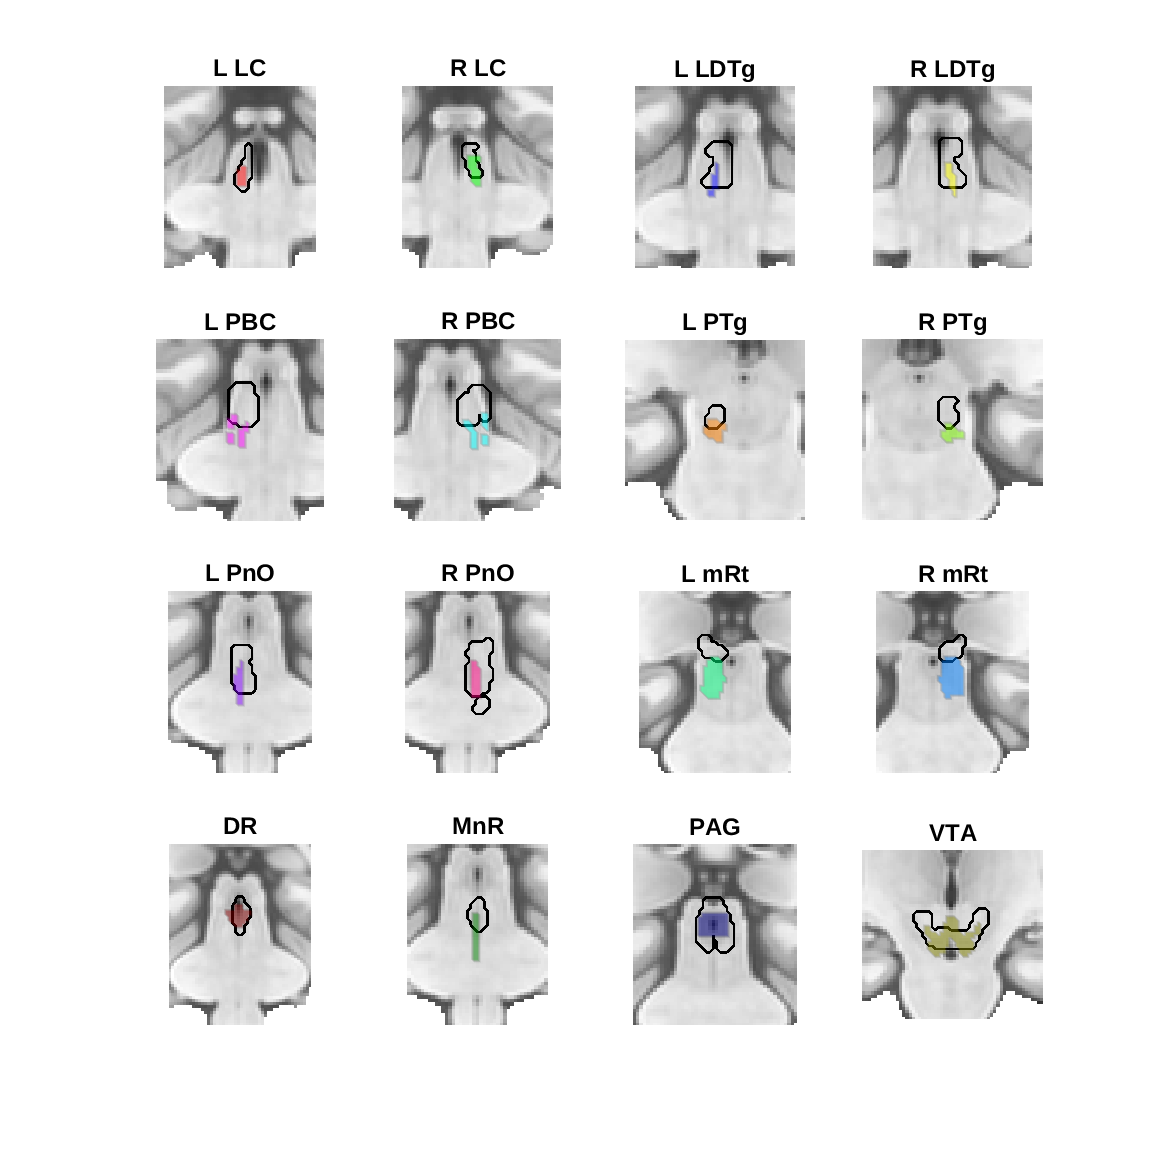
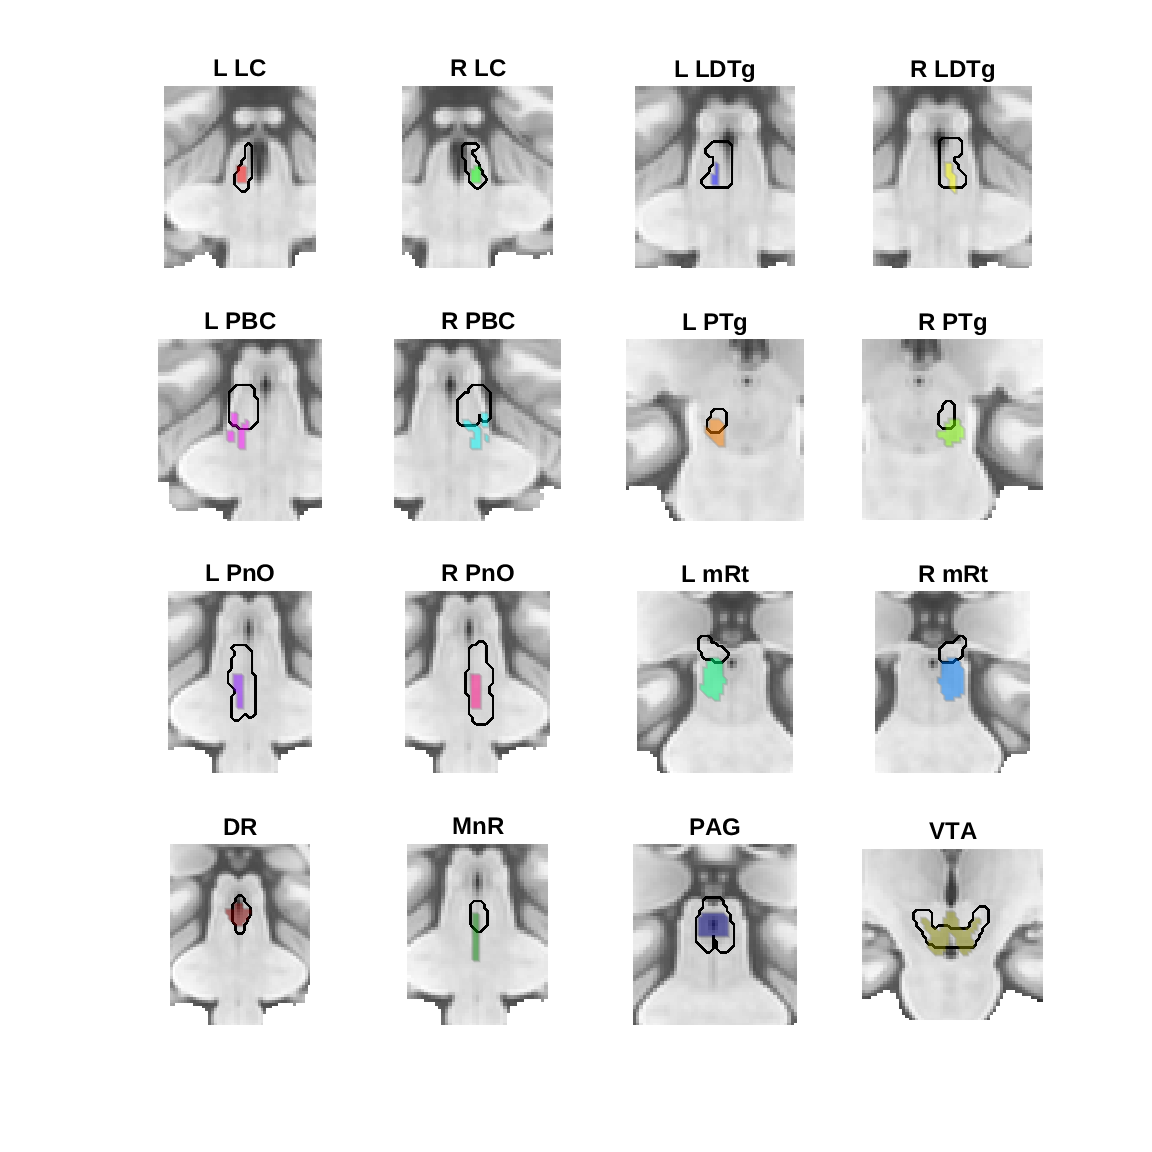
correction for use of wrong MNI152NLin2009cAsym transform

diff --git a/Atlases_and_parcellations/2023_harvard_aan_brainstem_atlas/html/compare_with_bianciardi.html b/Atlases_and_parcellations/2023_harvard_aan_brainstem_atlas/html/compare_with_bianciardi.html
@@ -186,7 +186,7 @@ sagittal montage: 102 voxels displayed, 447 not displayed on these slices
 Keeping probability_map values above 0.20
 Warning: Unknown input string option:existing_figure 
 Warning: Unknown input string option:existing_axes 
-sagittal montage: 102 voxels displayed, 537 not displayed on these slices
+sagittal montage: 111 voxels displayed, 528 not displayed on these slices
 Keeping probability_map values above 0.20
 Warning: Unknown input string option:existing_figure 
 Warning: Unknown input string option:existing_axes 
@@ -236,7 +236,7 @@ coronal montage:  21 voxels displayed,  45 not displayed on these slices
 Keeping probability_map values above 0.20
 Warning: Unknown input string option:existing_figure 
 Warning: Unknown input string option:existing_axes 
-coronal montage:  14 voxels displayed,  60 not displayed on these slices
+coronal montage:  20 voxels displayed,  54 not displayed on these slices
 Keeping probability_map values above 0.20
 Warning: Unknown input string option:existing_figure 
 Warning: Unknown input string option:existing_axes 
@@ -260,15 +260,15 @@ coronal montage:   9 voxels displayed, 161 not displayed on these slices
 Keeping probability_map values above 0.20
 Warning: Unknown input string option:existing_figure 
 Warning: Unknown input string option:existing_axes 
-coronal montage:  16 voxels displayed, 129 not displayed on these slices
+coronal montage:   7 voxels displayed, 138 not displayed on these slices
 Keeping probability_map values above 0.20
 Warning: Unknown input string option:existing_figure 
 Warning: Unknown input string option:existing_axes 
-coronal montage:  51 voxels displayed, 703 not displayed on these slices
+coronal montage:  84 voxels displayed, 670 not displayed on these slices
 Keeping probability_map values above 0.20
 Warning: Unknown input string option:existing_figure 
 Warning: Unknown input string option:existing_axes 
-coronal montage:  74 voxels displayed, 725 not displayed on these slices
+coronal montage:  97 voxels displayed, 702 not displayed on these slices
 Keeping probability_map values above 0.20
 Warning: Unknown input string option:existing_figure 
 Warning: Unknown input string option:existing_axes 
@@ -284,7 +284,7 @@ coronal montage:  25 voxels displayed, 339 not displayed on these slices
 Keeping probability_map values above 0.20
 Warning: Unknown input string option:existing_figure 
 Warning: Unknown input string option:existing_axes 
-coronal montage:  20 voxels displayed, 183 not displayed on these slices
+coronal montage:  17 voxels displayed, 186 not displayed on these slices
 Keeping probability_map values above 0.20
 Warning: Unknown input string option:existing_figure 
 Warning: Unknown input string option:existing_axes 
@@ -298,11 +298,11 @@ coronal montage:  96 voxels displayed, 1317 not displayed on these slices
 Keeping probability_map values above 0.20
 Warning: Unknown input string option:existing_figure 
 Warning: Unknown input string option:existing_axes 
-axial montage:   6 voxels displayed,  60 not displayed on these slices
+axial montage:   5 voxels displayed,  61 not displayed on these slices
 Keeping probability_map values above 0.20
 Warning: Unknown input string option:existing_figure 
 Warning: Unknown input string option:existing_axes 
-axial montage:   8 voxels displayed,  66 not displayed on these slices
+axial montage:   5 voxels displayed,  69 not displayed on these slices
 Keeping probability_map values above 0.20
 Warning: Unknown input string option:existing_figure 
 Warning: Unknown input string option:existing_axes 
@@ -314,11 +314,11 @@ axial montage:  19 voxels displayed, 536 not displayed on these slices
 Keeping probability_map values above 0.20
 Warning: Unknown input string option:existing_figure 
 Warning: Unknown input string option:existing_axes 
-axial montage:  22 voxels displayed, 527 not displayed on these slices
+axial montage:  32 voxels displayed, 517 not displayed on these slices
 Keeping probability_map values above 0.20
 Warning: Unknown input string option:existing_figure 
 Warning: Unknown input string option:existing_axes 
-axial montage:  23 voxels displayed, 616 not displayed on these slices
+axial montage:  31 voxels displayed, 608 not displayed on these slices
 Keeping probability_map values above 0.20
 Warning: Unknown input string option:existing_figure 
 Warning: Unknown input string option:existing_axes 
@@ -326,7 +326,7 @@ axial montage:   0 voxels displayed, 170 not displayed on these slices
 Keeping probability_map values above 0.20
 Warning: Unknown input string option:existing_figure 
 Warning: Unknown input string option:existing_axes 
-axial montage:   0 voxels displayed, 145 not displayed on these slices
+axial montage:   4 voxels displayed, 141 not displayed on these slices
 Keeping probability_map values above 0.20
 Warning: Unknown input string option:existing_figure 
 Warning: Unknown input string option:existing_axes 
@@ -334,7 +334,7 @@ axial montage:  24 voxels displayed, 730 not displayed on these slices
 Keeping probability_map values above 0.20
 Warning: Unknown input string option:existing_figure 
 Warning: Unknown input string option:existing_axes 
-axial montage:  31 voxels displayed, 768 not displayed on these slices
+axial montage:  29 voxels displayed, 770 not displayed on these slices
 Keeping probability_map values above 0.20
 Warning: Unknown input string option:existing_figure 
 Warning: Unknown input string option:existing_axes 
@@ -346,7 +346,7 @@ axial montage:   0 voxels displayed, 673 not displayed on these slices
 Keeping probability_map values above 0.20
 Warning: Unknown input string option:existing_figure 
 Warning: Unknown input string option:existing_axes 
-axial montage:   6 voxels displayed, 358 not displayed on these slices
+axial montage:   9 voxels displayed, 355 not displayed on these slices
 Keeping probability_map values above 0.20
 Warning: Unknown input string option:existing_figure 
 Warning: Unknown input string option:existing_axes 
@@ -354,11 +354,11 @@ axial montage:   0 voxels displayed, 203 not displayed on these slices
 Keeping probability_map values above 0.20
 Warning: Unknown input string option:existing_figure 
 Warning: Unknown input string option:existing_axes 
-axial montage:  78 voxels displayed, 914 not displayed on these slices
+axial montage:  79 voxels displayed, 913 not displayed on these slices
 Keeping probability_map values above 0.20
 Warning: Unknown input string option:existing_figure 
 Warning: Unknown input string option:existing_axes 
-axial montage: 104 voxels displayed, 1309 not displayed on these slices
+axial montage:  92 voxels displayed, 1321 not displayed on these slices
 </pre>
 <img vspace="5" hspace="5" src="compare_with_bianciardi_03.png" alt=""> <pre class="codeinput">
 <span class="keyword">end</span>
